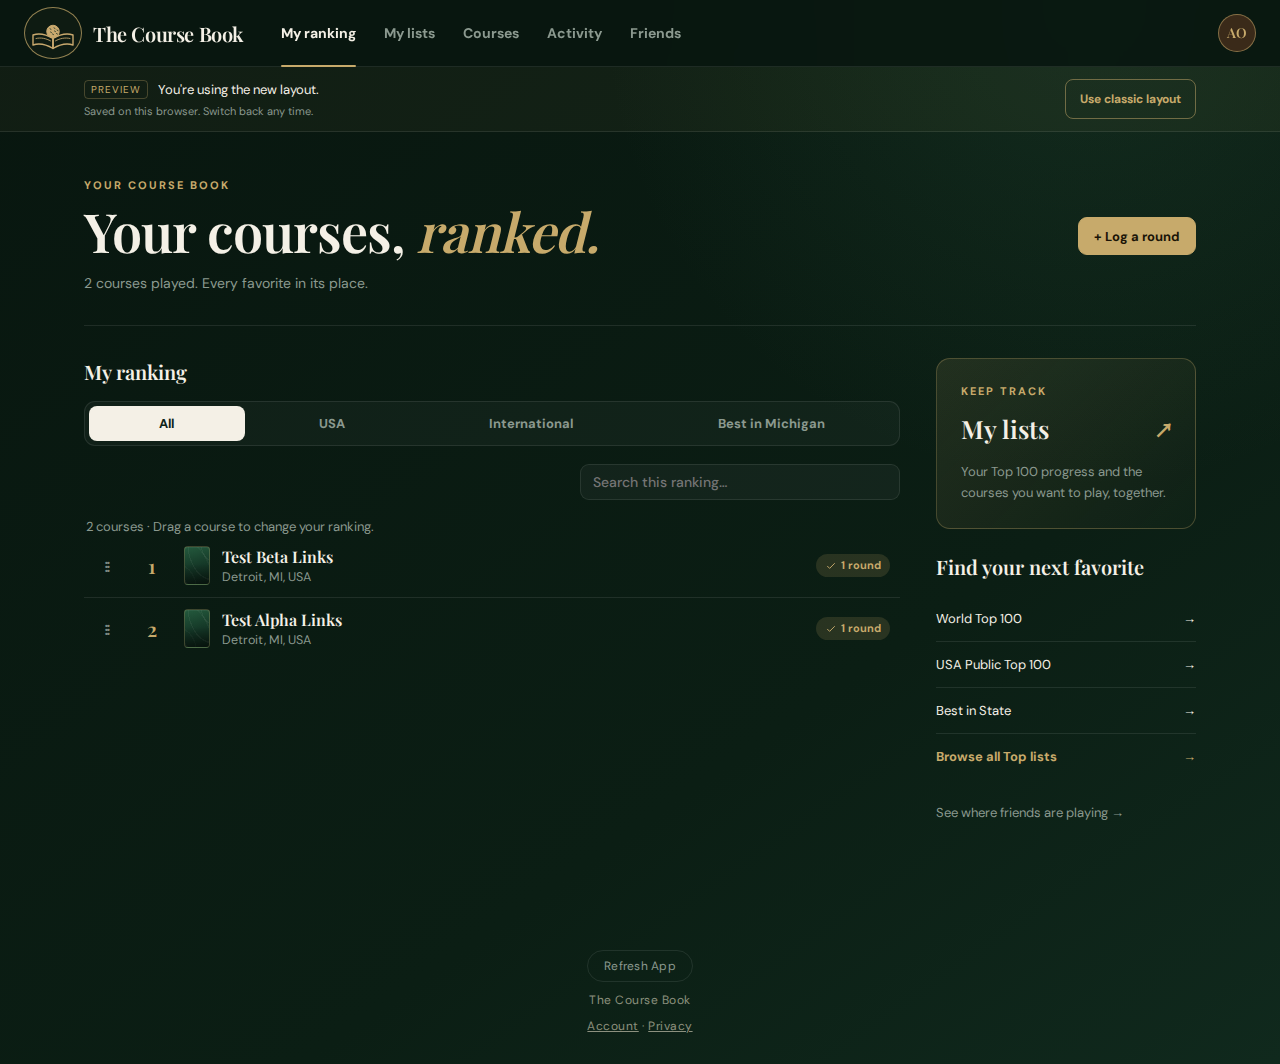
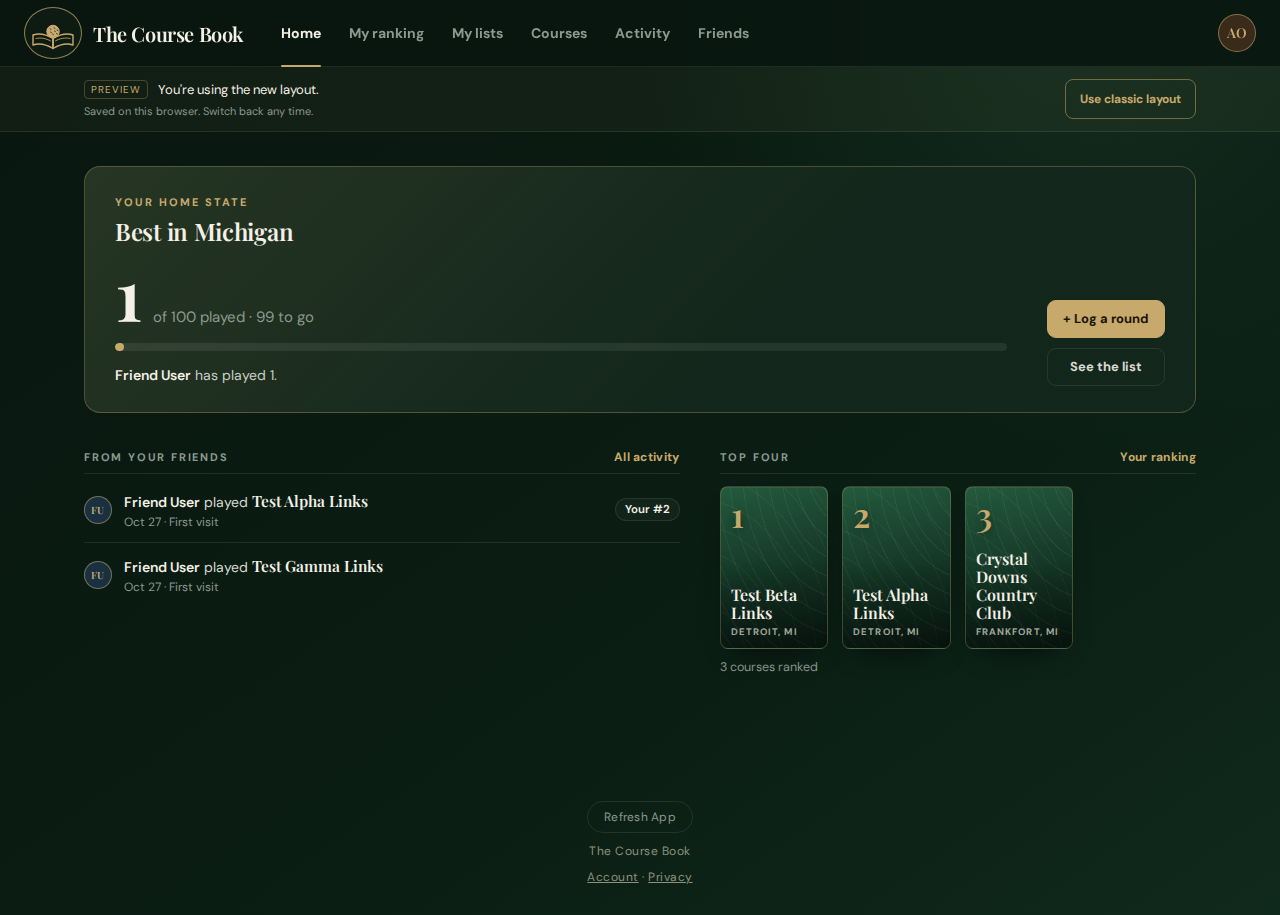
docs: record the progress-first preview Home
Adds the decision (amending the 2026-10-19 course-first Home), updates the architecture routes, AGENTS.md and the preview Home screenshots.

diff --git a/.planning/decisions/2026-10-27-progress-first-preview-home.md b/.planning/decisions/2026-10-27-progress-first-preview-home.md
@@ -1,0 +1,60 @@
+# Progress-first preview Home
+
+**Date:** 2026-10-27
+**Status:** Accepted
+
+Amends the Home and navigation parts of [Course-first Home and direct list navigation](2026-10-19-course-first-home-and-direct-list-navigation.md). The [opt-in layout preview](2026-10-19-opt-in-layout-preview-in-production.md) rollout is unchanged: Classic stays the default.
+
+## Context
+
+The maintainer's feedback on Classic Home: nothing on it draws you in; many things compete for attention. A UX review (local app, dev seed; write-up with screenshots, sources and a mockup at https://claude.ai/artifact/KaGUHupjqBkhMJC9AvVXW4) found:
+
+- **Classic.** The largest type is a label ("Where your friends are playing"). About a dozen elements share the gold accent. Four placeholder tiles repeat the first four feed rows. Every row's loudest element is a friend's own rank. The only primary action sits in the sidebar beside two "Coming soon" cards. Nothing is about the member.
+- **Course-first preview.** It is about the member, but its hero is a tagline and the brightest element is a filter tab. Home was the ranking editor: a tool for occasional reordering, with no focal point. Its "My lists" card described progress without showing it.
+
+The guidance agrees: give a page one focal point and one recommended action (NN/g homepage and visual-hierarchy articles, Apple HIG Layout, Hick's law and the isolation effect). People speed up as a goal gets close (goal-gradient: Kivetz et al. 2006). A feed is only as good as the friends in it (Burke et al. 2009). The comparable apps that lead with a personal number plus the next action include GHIN (2026 redesign) and Duolingo. Letterboxd keeps its activity stream in its own tab.
+
+The maintainer chose the full restructure over adding a hero above the existing editor.
+
+## Options Considered
+
+1. **Hero above the existing ranking editor.**
+   - Pros: smallest change.
+   - Cons: keeps a tool as Home; the page would still compete with itself.
+2. **Progress-first Home (chosen).** The focal point is progress on one list. Then three friends' rounds noted from the member's side, then their top four linking to the editor.
+   - Pros: one focal point that is personal and points to a next step. It reuses existing operations and components.
+   - Cons: three reads instead of one. The editor is one tap away.
+3. **Change Classic too, or make the new Home the default.**
+   - Pros: everyone sees it.
+   - Cons: changes production for every member without opt-in, against the rollout decision. Classic is expected to be retired, not improved.
+
+## Decision
+
+Option 2, in the course-first preview only.
+
+- **Hero.** One published list's progress: count, bar and the friend with the most played on it. Log a round is the page's only solid gold action; See the list opens `/courses?list=<slug>`. The list is chosen by `chooseGoalList` (`features/home/goal-list.ts`), in this order:
+  1. the home-state list, if started and unfinished;
+  2. otherwise the unfinished started list with the largest share played (ties go to more played, then display order);
+  3. otherwise the home-state list even if unstarted;
+  4. otherwise the first list.
+- **Friend comparison.** Shown as company ("Dan Whitaker has played 20"), not as a gap. Strava's 2024 Weekly Snapshot drew complaints for making comparisons feel like failure.
+- **Friends' rounds.** Three at distinct courses, from `newFromFriends`, which skips backfills. The note is "Your #n" when the course is on the member's list, else the course's first published rank (`friendNote`). It never says "not played": the match is by course id, and the API resolves equivalent course rows on some reads.
+- **Top four.** Reuses `TopFour`, with a "Your ranking" link to `/u/:username/ranking`. The full editor and its `?log=1` dialog live there.
+- **Navigation.**
+  - Desktop: Home, My ranking, My lists, Courses, Activity, Friends.
+  - Phones: Home, My ranking, Log a round, Courses, Friends. That is five slots. Home links to Activity and to the member's lists, so those two are desktop-only.
+  - All six desktop links fit at the 901px breakpoint.
+- **Log links.** `/?log=1` redirects to the own-profile Ranking dialog in both layouts.
+- **Reads.** Home reads `/v1/top-lists`, the newest 12 feed items and `/v1/me/courses` in parallel. There are no API, contract, schema, auth or infrastructure changes.
+
+## Consequences
+
+- **Superseded.** The course-first decision's "the editable ranking is Home" and its "Home reads only `/v1/me/courses`" no longer hold for the preview.
+- **Request cost.** Home makes three parallel reads where the old preview made one and Classic makes two, on top of the shell's two. Loading delays reported on 19 Oct are still unexplained. Measure with the loading telemetry (PR #46) once it ships. If Home is slow, an additive `/v1/home` summary operation is the contract-safe fallback.
+- **Classic unchanged.** It keeps the review's findings (Coming soon cards, gold everywhere, duplicated strip). Promoting the preview and retiring Classic, its control and the preference together remains the plan.
+- **Browser tests.** Shared journeys now edit the ranking on the profile in both layouts. A preview journey covers the hero, the friends' notes, the top four, See the list, Your ranking, All activity and `/?log=1`.
+- **Not done; separate decisions:**
+  - letting members pick a goal list (an account field);
+  - course photography in the hero (rights and attribution, per the course-first decision);
+  - milestone moments instead of streaks;
+  - the out-of-date "Want to play, Coming soon" card on Profile.

diff --git a/docs/architecture.md b/docs/architecture.md
@@ -178,8 +178,8 @@ The web app is mid-redesign ([decision](../.planning/decisions/2026-09-29-social
 - **Redesigned screens** style themselves with colocated CSS modules. These are the navigation (`features/shell`), Home (`features/home`), Activity, profiles and Friends (`features/social`, `features/friends`), the Courses page and member Top lists (`features/top-lists`), and the Ranking tab (`features/journal`, on the Top lists rows). They use the `legacy.css` `:root` tokens (`--bg`, `--panel`, `--cream`, `--gold`, …) and its Playfair Display and DM Sans fonts. Modules keep their class names local, because `legacy.css` styles bare `header`, `nav`, `main` and generic classes such as `.card`, `.avatar` and `.stat`. Join module classes with `cx()` (`shared/lib/cx.ts`): lookups are `string | undefined` under `noUncheckedIndexedAccess`.
 - **Screens not yet redesigned** keep their markup, element ids and `legacy.css`: Account, Privacy, and the Ranking tab's dialogs (course details, the count editor, round history, Log and Add a course). The stylesheet preserves what Chromium parsed from the original page, including rules the browser ignored, so broad cleanup changes appearance.
 - **Routes:**
-  - `/` is Home. Classic (the default) shows the friends feed; the opt-in new layout shows the member’s full editable ranking with Log a round, My lists and published-list shortcuts. The preview reads `/v1/me/courses` independently of the feed. Visitors see the welcome in both layouts. `?log=1` opens the preview’s Log dialog, or redirects to the own-profile Ranking dialog in Classic.
-  - `/activity` is the friends feed in either layout. Preview navigation is My ranking, My lists, Courses, Activity and Friends, with Profile in the account menu. Classic keeps Home, Courses, Friends and Profile, plus the mobile Log button. My lists links straight to `/u/:username/lists`. See the [course-first Home decision](../.planning/decisions/2026-10-19-course-first-home-and-direct-list-navigation.md).
+  - `/` is Home. Classic (the default) shows the friends feed. The opt-in new layout leads with one focal point: the member's progress on one published list (their home state's when started, else the started list with the largest share played), with Log a round as the only solid action. Below it are three friends' rounds at different courses, each noted from the member's side ("Your #2", else the course's published rank), and the member's top four, linking to their Ranking tab. It reads `/v1/top-lists`, the newest 12 feed items and `/v1/me/courses` in parallel; the choice rules are pure functions in `features/home/goal-list.ts` and `friend-note.ts`. Visitors see the welcome in both layouts. In both layouts `?log=1` redirects to the own-profile Ranking with the Log dialog open.
+  - `/activity` is the friends feed in either layout. Preview navigation on desktop is Home, My ranking, My lists, Courses, Activity and Friends. On phones it is Home, My ranking, Log a round, Courses and Friends, and Home links to Activity and the member's lists. Profile is in the account menu. My ranking and My lists link straight to `/u/:username/ranking` and `/u/:username/lists`. Classic keeps Home, Courses, Friends and Profile, plus the mobile Log button. See the [progress-first Home decision](../.planning/decisions/2026-10-27-progress-first-preview-home.md), which amends the [course-first Home decision](../.planning/decisions/2026-10-19-course-first-home-and-direct-list-navigation.md).
   - `/courses` is the published Top lists; `/top-100` redirects there.
   - `/u/:username` is a profile, with tabs for Timeline (index), Ranking, Lists and Stats. The member's own Ranking tab is the list editor, and `?log=1` opens the Log dialog. `/u/:username/lists/:list` (`usa`, `usa-public`, `world`, `state-mi`, …) is one Top list with the member's ticks and, on a friend's, the viewer's.
   - `/friends` is requests, search and friends; `/friends/:username` redirects to the profile.

diff --git a/AGENTS.md b/AGENTS.md
@@ -25,7 +25,7 @@ The application was rebuilt from a static Supabase SPA per [the rebuild decision
 - The API contract (`contract/openapi.json`) is generated from the route definitions and only grows: add operations, fields and error codes; never rename, retype or remove them. Follow [contract/README.md](contract/README.md) and run `pnpm contract:emit` after changing a route or schema. Installed app builds depend on it.
 - Validate every boundary with Zod: request parameters and bodies through the contract schemas, form data in the web's `clientAction`, environment variables at startup, external API responses and token claims. Keep contract shapes, domain models and Drizzle row types separate; mappers translate between them.
 - Schema changes ship as Drizzle migration files generated from `apps/api/src/db/schema.ts` and committed with the change. Never edit an applied migration; never use `drizzle-kit push` outside a throwaway local database. Migrations run when the API starts, while the previous release still serves, so they must stay backward-compatible.
-- Components own presentation and transient interaction state. Data arrives from route `clientLoader`s as `loaderData`; changes go through `useFetcher` (`useActionFetcher`) to a route `clientAction`, which calls the API: `/journal` for list and round changes, `/friends` for friend requests. The social redesign ([decision](.planning/decisions/2026-09-29-social-redesign-top-lists-profiles-timelines-and-star-ratings.md)) is replacing the old screens: new components style themselves with colocated CSS modules (`*.module.css`) over the `legacy.css` tokens and fonts, so they cannot collide with its global class names. Classic remains the default layout (Home feed and Profile navigation). The opt-in course-first preview makes Home the editable ranking and exposes My lists directly; the preview strip switches both Home and navigation and saves only a browser preference ([rollout decision](.planning/decisions/2026-10-19-opt-in-layout-preview-in-production.md)). Both layouts use the same API and real member data; keep tests for both until the preview is retired. Screens not yet redesigned (Account, the journal dialogs) keep their markup, element ids and `legacy.css`.
+- Components own presentation and transient interaction state. Data arrives from route `clientLoader`s as `loaderData`; changes go through `useFetcher` (`useActionFetcher`) to a route `clientAction`, which calls the API: `/journal` for list and round changes, `/friends` for friend requests. The social redesign ([decision](.planning/decisions/2026-09-29-social-redesign-top-lists-profiles-timelines-and-star-ratings.md)) is replacing the old screens: new components style themselves with colocated CSS modules (`*.module.css`) over the `legacy.css` tokens and fonts, so they cannot collide with its global class names. Classic remains the default layout (Home feed and Profile navigation). The opt-in course-first preview leads Home with the member's progress on one published list, then friends' rounds and their top four, and links My ranking and My lists directly ([decision](.planning/decisions/2026-10-27-progress-first-preview-home.md)); the preview strip switches both Home and navigation and saves only a browser preference ([rollout decision](.planning/decisions/2026-10-19-opt-in-layout-preview-in-production.md)). Both layouts use the same API and real member data; keep tests for both until the preview is retired. Screens not yet redesigned (Account, the journal dialogs) keep their markup, element ids and `legacy.css`.
 - Do not introduce a state library, UI framework, second router, alternate package manager, ORM, API framework or hosting change incidentally. If a requirement needs an architectural change, explain the tradeoff and record the agreed decision.
 
 ## TypeScript and UI conventions

diff --git a/.planning/decisions/2026-10-19-course-first-home-and-direct-list-navigation.md b/.planning/decisions/2026-10-19-course-first-home-and-direct-list-navigation.md
@@ -5,6 +5,8 @@
 
 **Rollout amendment:** [Opt-in layout preview](2026-10-19-opt-in-layout-preview-in-production.md) keeps Classic as the production default until the maintainer promotes this design. It also retains own-profile destinations for shared Log links; only the preview Home's Log action uses `/?log=1`.
 
+**Home amendment (2026-10-27):** [Progress-first preview Home](2026-10-27-progress-first-preview-home.md) replaces the editable-ranking Home, its single `/v1/me/courses` read and the preview navigation below. The editor stays on the own-profile Ranking tab, and `/?log=1` now redirects there in both layouts.
+
 ## Context
 
 The product owner's feedback, endorsed by the maintainer, is that courses and the member's personal ranking are the app's core. The social feed is useful, but leading with it hid the ranking behind Profile → Ranking and list progress behind Profile → Lists. The maintainer requested a homepage redesign and less friction reaching these features.
